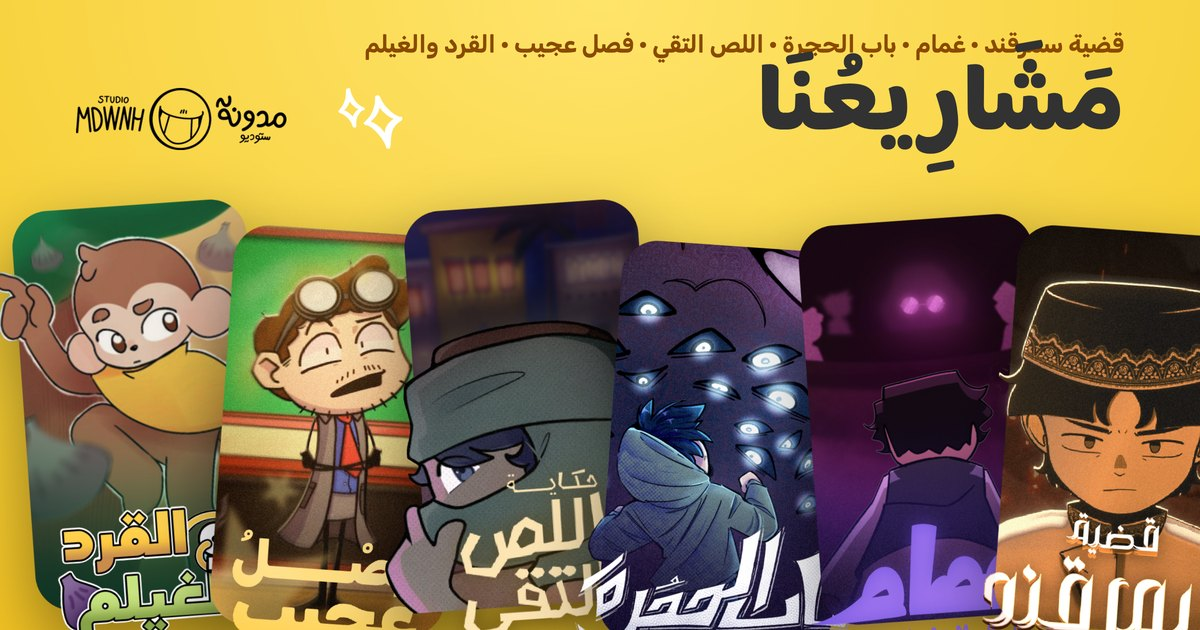
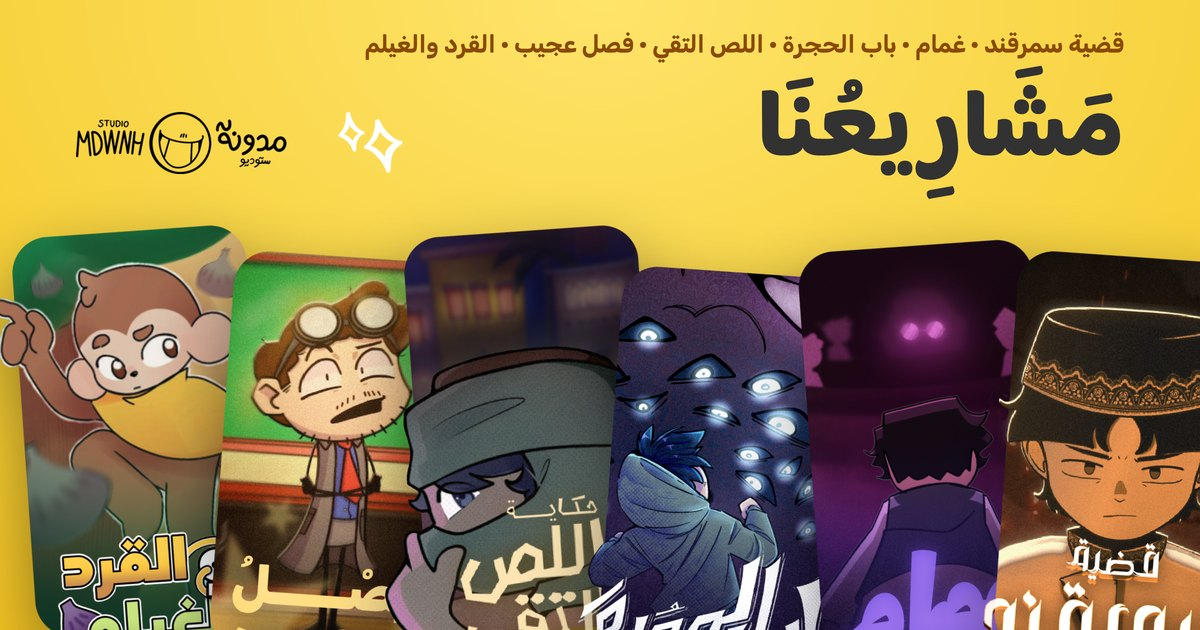
Home share card from the finished master, and room above مشاريعنا
The home card now ships the hand-made thumbnail in Art/, cut to the
card's shape. On the /projects card the title sits lower, so its
tashkeel no longer runs into the line of names above it.

diff --git a/tools/og/cards.html b/tools/og/cards.html
@@ -109,7 +109,9 @@ function comic(c) {
 }
 
 const CARDS = {
-  /* the studio: its cast, its name, and the house clouds in front */
+  /* the studio: its cast, its name, and the house clouds in front. Only the
+     fallback: with a finished master in Art/ the build ships that instead
+     (OG_MASTERS in build-assets.py) */
   home: () => h(`
     <div class="scrim" style="background:radial-gradient(90% 120% at 26% 46%, #7a4a9c 0%, #4a2a63 55%, #2c1640 100%)"></div>
     ${mark('sparkles', SUN, 'left:560px;top:66px;width:70px;height:76px;transform:rotate(14deg)')}
@@ -148,16 +150,16 @@ const CARDS = {
   projects: () => {
     const ids = ['qird', 'fasl', 'lis', 'hujra', 'ghamam', 'samarqand'];
     const row = ids.map((id, i) => `<img class="poster" src="${ART}${WORKS[id].poster}"
-      style="left:${-44 + i * 196}px;top:${i % 2 ? 196 : 170}px;height:500px;transform:rotate(${i % 2 ? 4 : -4}deg)">`).join('');
+      style="left:${-44 + i * 196}px;top:${i % 2 ? 222 : 196}px;height:500px;transform:rotate(${i % 2 ? 4 : -4}deg)">`).join('');
     return h(`
     <div class="scrim" style="background:radial-gradient(100% 130% at 50% 0%, #ffe46b 0%, ${SUN} 60%, #f0bf1e 100%)"></div>
-    ${mark('sparkles', '#fff', 'left:340px;top:84px;width:62px;height:68px;transform:rotate(-10deg)')}
+    ${mark('sparkles', '#fff', 'left:340px;top:108px;width:62px;height:68px;transform:rotate(-10deg)')}
     <div class="copy" style="--accent:#8a4a00;inset:30px 76px auto 76px;width:auto;display:block;padding:0">
       <p class="eyebrow" style="font-size:24px">قضية سمرقند · غمام · باب الحجرة · اللص التقي · فصل عجيب · القرد والغيلم</p>
-      <h1 style="--size:96px;margin-top:-4px">مَشَارِيعُنَا</h1>
+      <h1 style="--size:96px;margin-top:22px">مَشَارِيعُنَا</h1>
     </div>
     ${row}
-    <img src="${IMG}logo-dark.webp" style="left:76px;top:88px;height:62px">`);
+    <img src="${IMG}logo-dark.webp" style="left:76px;top:112px;height:62px">`);
   },
 
   /* an old or unknown project link: the six, without picking one */

diff --git a/tools/build-assets.py b/tools/build-assets.py
@@ -804,6 +804,11 @@ OG_CARDS = ["home", "project", "projects", "comics",
             "samarqand", "ghamam", "hujra", "lis", "fasl", "qird",
             "comic-hujra", "comic-samarqand", "comic-qird"]
 OG_SIZE = (1200, 630)
+# A card that was finished by hand ships as it is instead of being laid out:
+# the name is matched against the files at the top of Art/, and the box is
+# the part of the master to keep (it drops the white edge the artboard was
+# exported with, and is already the card's shape).
+OG_MASTERS = {"home": ("thumbnail", (20, 46, 1905, 1036))}
 CHROME = ["/Applications/Google Chrome.app/Contents/MacOS/Google Chrome",
           "/Applications/Chromium.app/Contents/MacOS/Chromium",
           "google-chrome", "chromium", "chromium-browser"]
@@ -826,6 +831,15 @@ def build_og(only=None):
     page = "file://" + os.path.join(ROOT, "tools", "og", "cards.html").replace(" ", "%20")
     total = 0
     for name in OG_CARDS:
+        out = os.path.join(d, f"{name}.jpg")
+        try:
+            needle, box = OG_MASTERS[name]
+            im = Image.open(find("Art", needle)).convert("RGB").crop(box).resize(OG_SIZE, Image.LANCZOS)
+            im.save(out, "JPEG", quality=88, optimize=True, progressive=True)
+            total += os.path.getsize(out)
+            continue
+        except (KeyError, FileNotFoundError):
+            pass
         shot = os.path.join(d, f".{name}.png")
         subprocess.run([chrome, "--headless=new", "--disable-gpu", "--hide-scrollbars",
                         "--allow-file-access-from-files", "--force-device-scale-factor=2",
@@ -833,7 +847,6 @@ def build_og(only=None):
                         f"--screenshot={shot}", f"{page}?card={name}"],
                        check=True, stdout=subprocess.DEVNULL, stderr=subprocess.DEVNULL)
         im = Image.open(shot).convert("RGB").resize(OG_SIZE, Image.LANCZOS)
-        out = os.path.join(d, f"{name}.jpg")
         im.save(out, "JPEG", quality=86, optimize=True, progressive=True)
         os.remove(shot)
         total += os.path.getsize(out)

diff --git a/CLAUDE.md b/CLAUDE.md
@@ -311,6 +311,10 @@ each of the six works, the comic shelf, each of the three readers, and
   out with the real fonts and the masters in `Art/`, and `python3
   tools/build-assets.py og` photographs each with a headless Chrome. JPEG,
   not WebP, because the apps that unfurl links do not all read WebP.
+- **The home card is finished by hand.** Its master is `Art/Main site
+  thumbnail.png` (1920 by 1080), and the build cuts it to shape instead of
+  laying a card out (`OG_MASTERS` in build-assets.py). To change it, replace
+  that file and rerun the step.
 - **A crawler never runs the scripts**, so `project.html?id=` looks the same
   to it whatever the id. Each work therefore has `/work/<id>/`, a few lines
   of HTML with that work's card that forward to `project.html?id=<id>`, and
